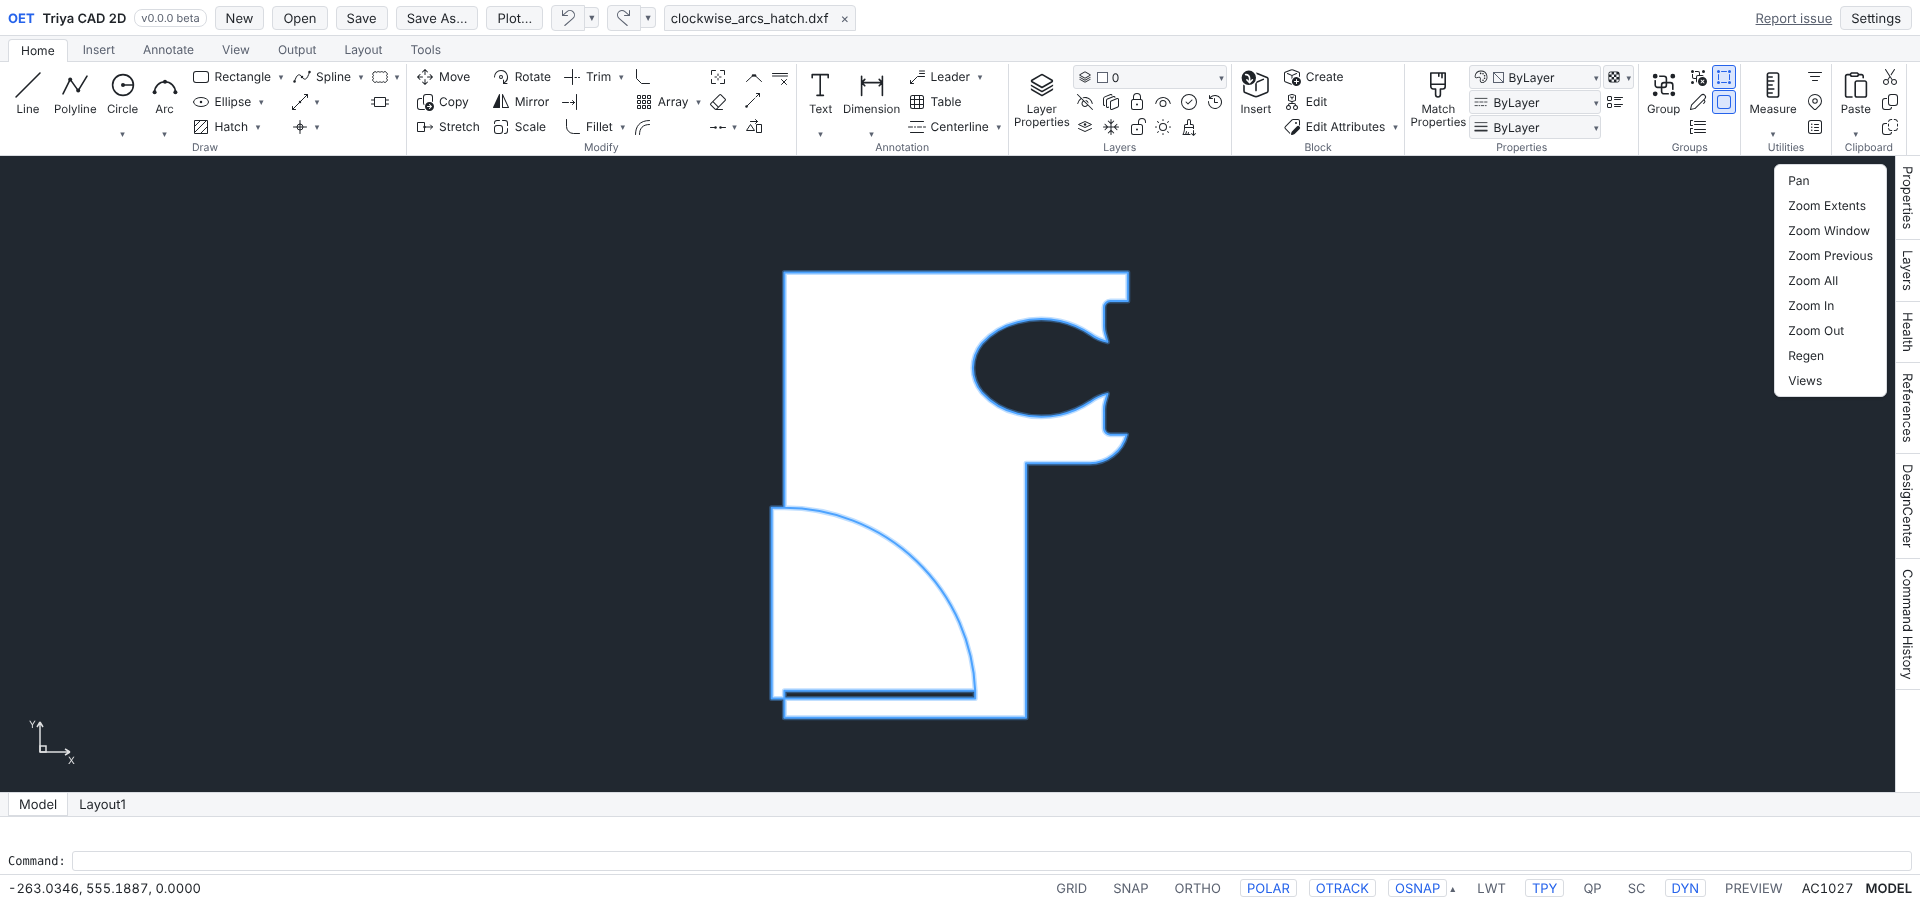
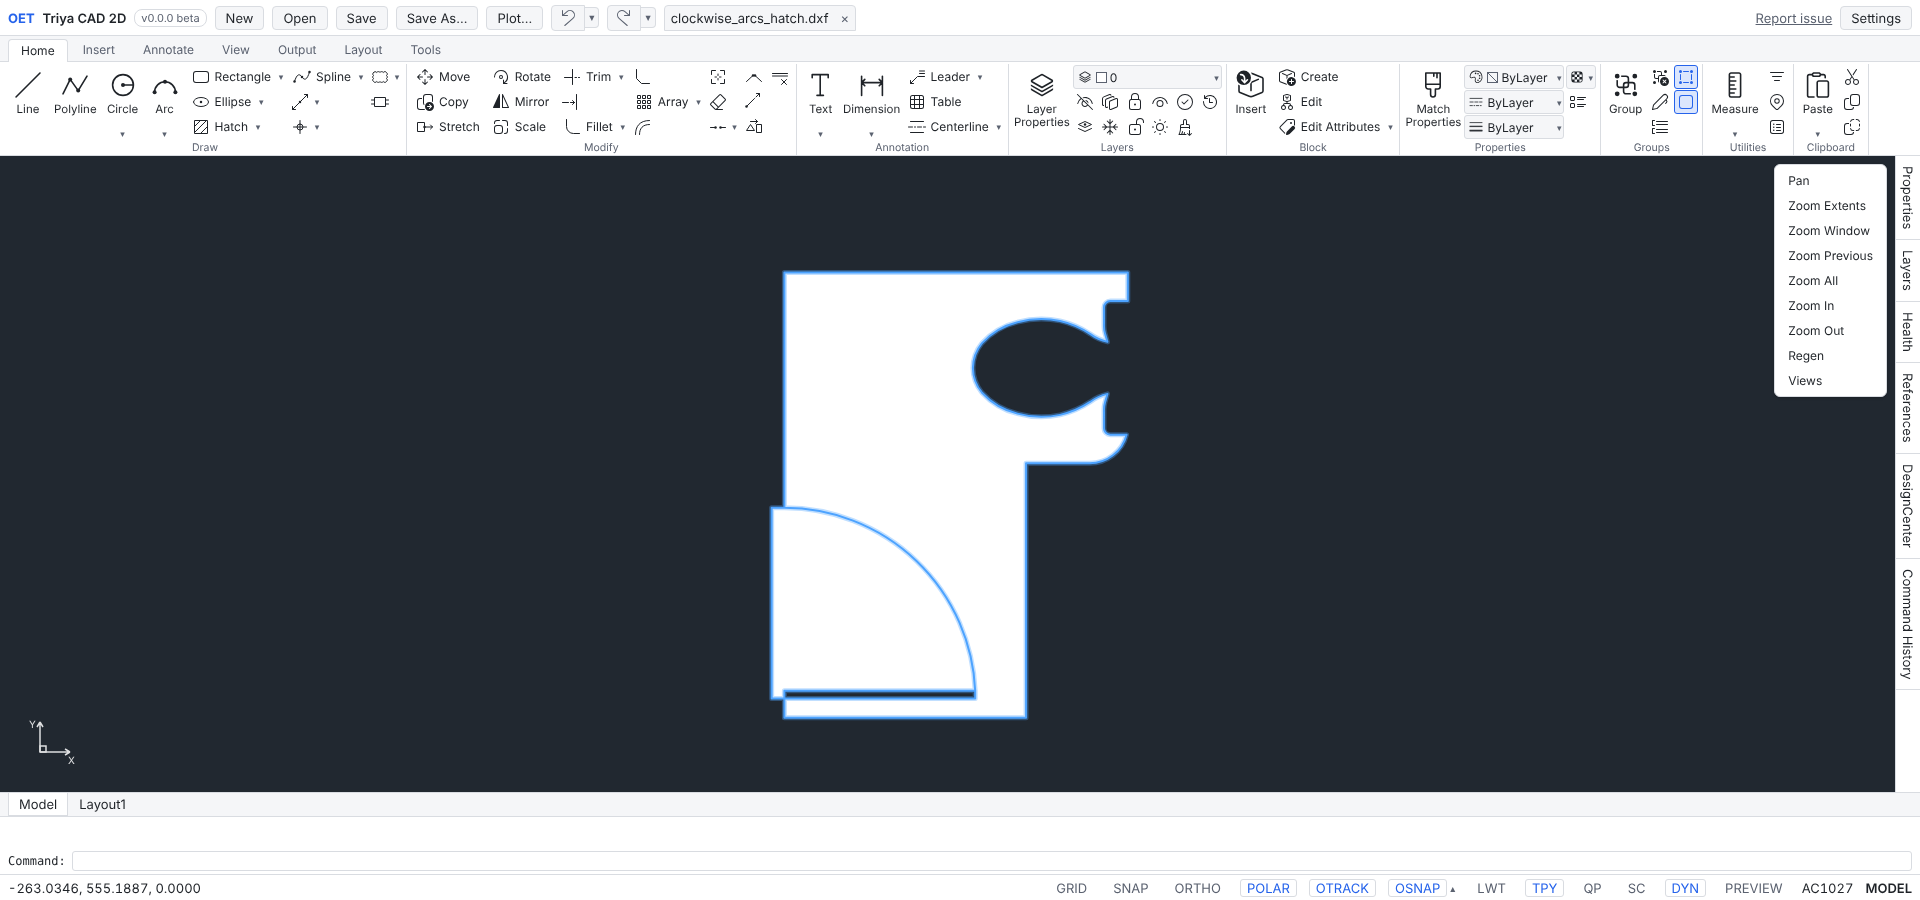
fix(app): fixed-width ribbon dropdowns, so the full ribbon keeps every panel expanded at 1920 (M7-02 part 3)
CI's fonts made the Home panels overflow at 1920 by a few pixels: the
Properties dropdowns grew with their values. They are now 100 px wide,
a long value ending in an ellipsis, and the layer tools sit 1 px apart.

Claude-Session: https://claude.ai/code/session_01JyMu1w5fBK7WfEq2fRHqej

Changed region(s): [[0.5625, 0.0622, 1.0, 0.1867], [0.5625, 0.1556, 0.5938, 0.1867]]

diff --git a/apps/web/src/styles.css b/apps/web/src/styles.css
@@ -671,10 +671,9 @@ button {
 }
 
 .ribbon-item.ribbon-control {
-  width: 100%;
-  min-width: 132px;
-  max-width: 160px;
-  gap: 4px;
+  /* A fixed width, so a long value never widens the ribbon (it ends in an ellipsis). */
+  width: 100px;
+  gap: 3px;
   padding: 0 2px 0 3px;
   background: var(--chrome-bg);
   border-color: var(--chrome-border);
@@ -682,8 +681,6 @@ button {
 
 .ribbon-item.ribbon-control.icon {
   width: auto;
-  min-width: 0;
-  max-width: none;
   padding: 0 2px;
 }
 
@@ -730,11 +727,12 @@ button {
 }
 
 .ribbon-stack .ribbon-item.ribbon-control {
-  max-width: none;
+  width: 100%;
 }
 
 .ribbon-tools {
   flex: none;
+  column-gap: 1px;
   padding: 0;
 }
 
